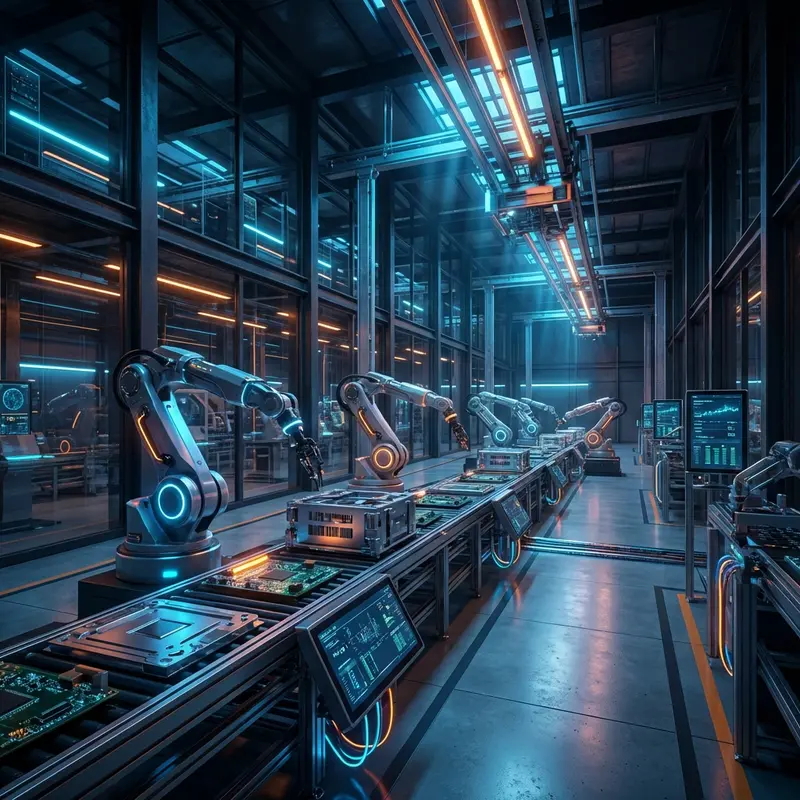
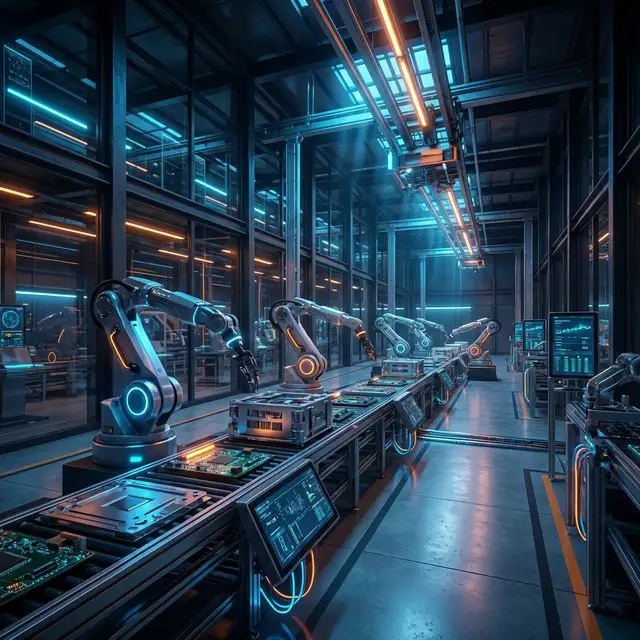
Add files via upload

diff --git a/index.html b/index.html
@@ -247,7 +247,7 @@
                     <!-- Left Column: Portrait & Credentials Card -->
                     <div class="executive-card-left">
                         <div class="portrait-container">
-                            <img loading="lazy" decoding="async" src="assets/founder-aaron.webp" alt="Aaron Ibarra Cepeda - Fundador Robologix Automation" class="executive-portrait">
+                            <img width="400" height="400" loading="lazy" decoding="async" src="assets/founder-aaron.webp" alt="Aaron Ibarra Cepeda - Fundador Robologix Automation" class="executive-portrait">
                             <div class="verified-badge"><i class="fas fa-shield-alt"></i> Trayectoria Verificada desde 2009</div>
                         </div>
 
@@ -434,7 +434,7 @@
             </div>
             <div style="flex: 0 0 320px; max-width: 100%;">
                 <a href="podcast/index.html">
-                    <img loading="lazy" decoding="async" src="podcast/Portada_Episodio_17_PLC_Huerfano.png" alt="Podcast Cero Paros Robologix" style="width: 100%; border-radius: 12px; border: 2px solid var(--primary-color); box-shadow: 0 10px 30px rgba(0, 243, 255, 0.2); transition: transform 0.3s;">
+                    <img width="1080" height="1080" loading="lazy" decoding="async" src="podcast/Portada_Episodio_17_PLC_Huerfano.png" alt="Podcast Cero Paros Robologix" style="width: 100%; border-radius: 12px; border: 2px solid var(--primary-color); box-shadow: 0 10px 30px rgba(0, 243, 255, 0.2); transition: transform 0.3s;">
                 </a>
             </div>
         </div>

diff --git a/styles.css b/styles.css
@@ -7,8 +7,8 @@
     --bg-card: #141414;
     --text-light: #e0e0e0;
     --text-muted: #a0a0a0;
-    --font-heading: 'Orbitron', sans-serif;
-    --font-body: 'Roboto', sans-serif;
+    --font-heading: 'Orbitron', system-ui, -apple-system, sans-serif;
+    --font-body: 'Roboto', system-ui, -apple-system, sans-serif;
 }
 
 * {
